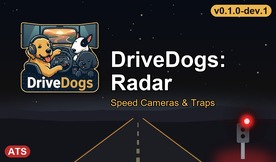
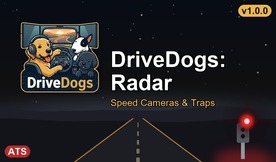
release 1.0.0: speed camera strobes and flashing police traps for ats
same models as 0.1.0-dev.1 on the 1.62.1.1 base; only the version, the cover badge and a readme note change.
shipped before an in-game round because the career save can't reach the cameras freely yet, so in-game
findings come back as 1.0.x patches.

Changed region(s): [[0.7536, 0.0, 0.9855, 0.1235]]

diff --git a/README.md b/README.md
@@ -43,3 +43,7 @@ is copied into the SimHub plugin repo only for the **same game version** (`data/
 ## History
 Ported from the ETS2 DriveDogs Radar 1.0.0 tools; the ETS2 repo's `docs/POC-PLAN.md` records the proof of
 concept, including why an in-cab indicator was not possible as a mod.
+
+1.0.0 was released before an in-game check on ATS: the strobe unit is the one playtested in ETS2, and the
+package was verified offline (lint against the base data, archive compared with the build). Reports of a
+camera without a strobe or a trap car that does not flash are welcome; fixes ship as 1.0.x.
